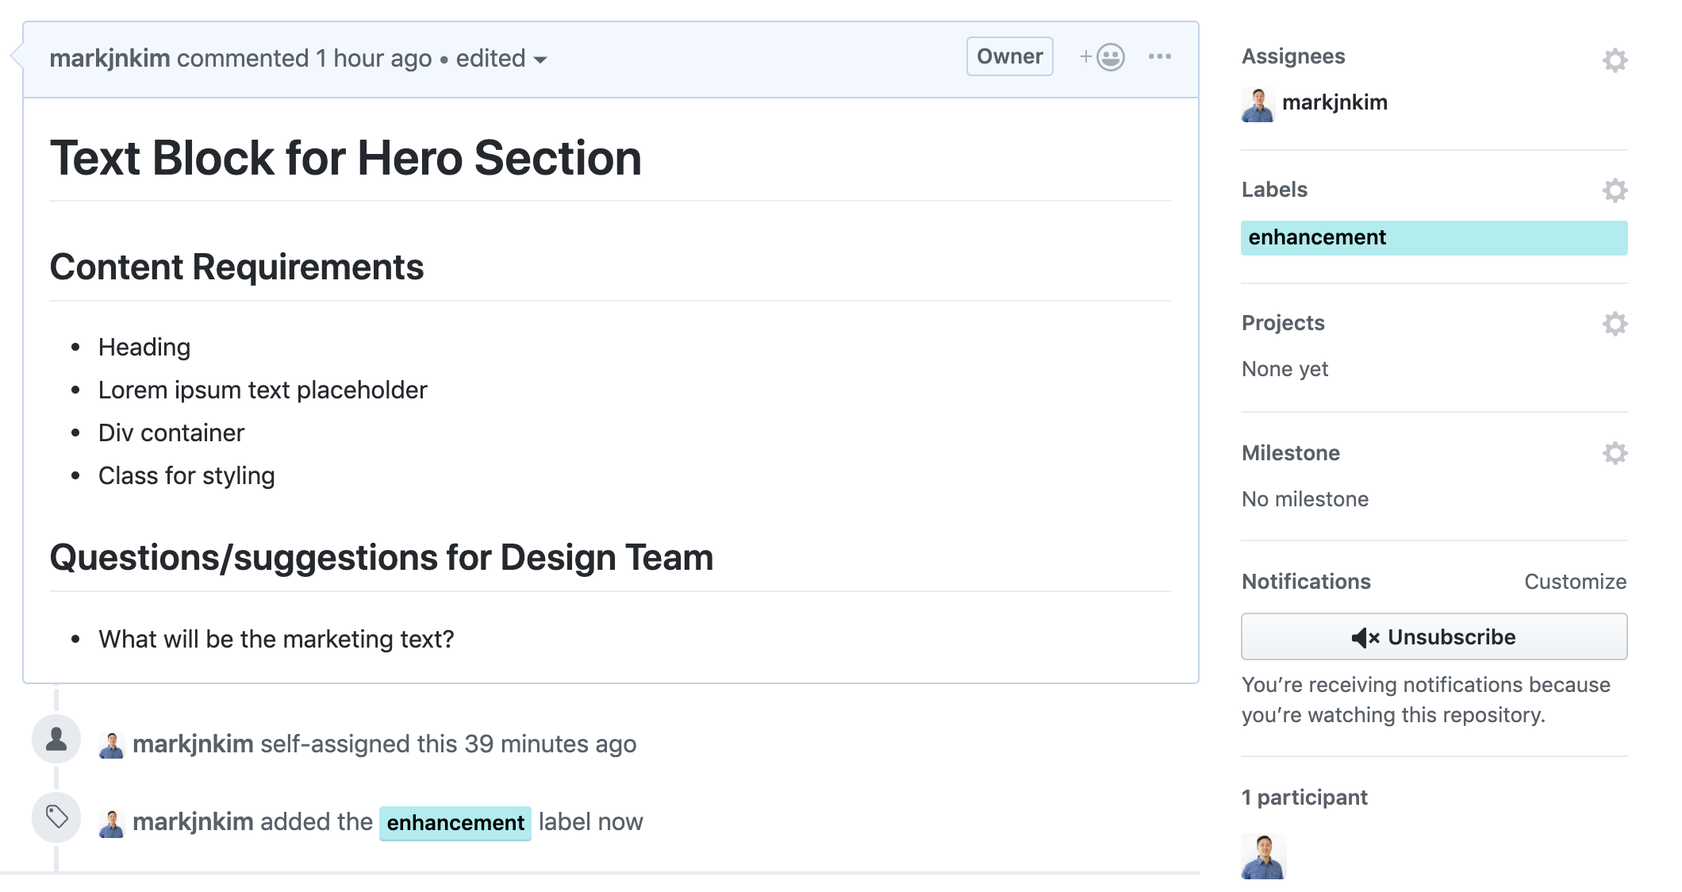
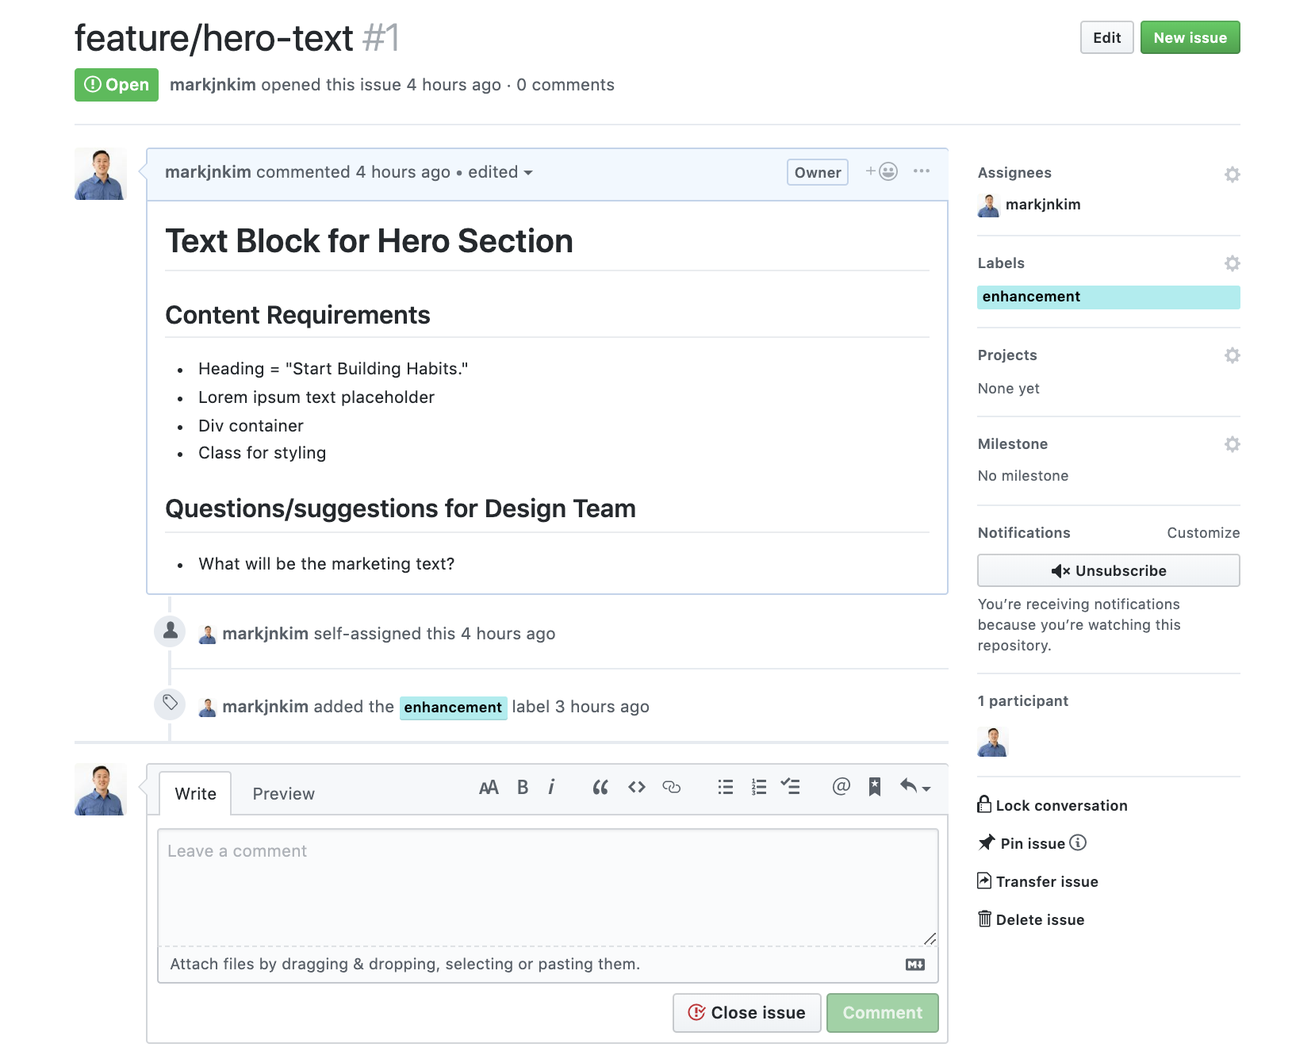
reflection

diff --git a/01-html/project/index.html b/01-html/project/index.html
@@ -11,23 +11,22 @@
       <h1>
         <a href="/">RUN BUDDY</a>
       </h1>
-      <nav>
-        <ul>
-          <li>
-            <a href="#what-we-do">What We Do</a>
-          </li>
-          <li>
-            <a href="#what-you-do">What You Do</a>
-          </li>
-          <li>
-            <a href="#your-trainers">Your Trainers</a>
-          </li>
-          <li>
-            <a href="#reach-out">Reach Out</a>
-          </li>
-          
-        </ul>
-      </nav>
+    <nav>
+      <ul>
+        <li>
+          <a href="#what-we-do">What We Do</a>
+        </li>
+        <li>
+          <a href="#what-you-do">What You Do</a>
+        </li>
+        <li>
+          <a href="#your-trainers">Your Trainers</a>
+        </li>
+        <li>
+          <a href="#reach-out">Reach Out</a>
+        </li>
+      </ul>
+    </nav>
     </header>
     <!-- end navigation -->
 
@@ -37,26 +36,25 @@
         <h3>Get Started Today!</h3>
         <p>Fill out this form and one of our trainers will schedule a consult.</p>
         <form>
-          <label for="name">Enter full name:</label>
-          <input type="text" placeholder="Your Name" id="name" name="name" class="form-input" />
-          <label for="email">Enter email address:</label>
-          <input type="email" placeholder="Email Address" id="email" name="email" class="form-input" />
-          <label for="phone">Enter a telephone number:</label>
-          <input type="tel" placeholder="Phone Number" name="phone" id="phone" class="form-input" />
+          <input type="text" placeholder="Your Name" name="name" class="form-input"/>
+          <input type="email" placeholder="Email Address" name="email" class="form-input"/>
+          <input type="tel" placeholder="Phone Number" name="phone" class="form-input"/>
           <p>
             Have you worked out with a trainer before? 
-            <input type="radio" name="trainer-confirm" id="trainer-yes" />
-            <label for="trainer-yes">Yes</label>
-            <input type="radio" name="trainer-confirm" id="trainer-no"/>
-            <label for="trainer-no">No</label>
+            <label for="trainer-yes">
+              <input type="radio" name="trainer-confirm" id="trainer-yes" />
+              Yes
+            </label>
+            <label for="trainer-no">
+              <input type="radio" name="trainer-confirm" id="trainer-no"/>
+              No
+            </label>
           </p>
           <p>
-            <label for="checkbox">
-              I acknowledge that I am at least 18 years of age.
-            </label>
-            <input type="checkbox" name="age-confirm" id="checkbox" />
+            I acknowledge that I am at least 18 years of age.
+            <input type="checkbox" name="age-confirm" />
           </p>
-          <button type="submit">
+          <button type="submit" class="form-submit">
             Get running!
           </button>
         </form>
@@ -144,38 +142,55 @@
         Reach Out
       </h2>
 
+
       <div class="contact-info">
-        <iframe src="https://www.google.com/maps/embed?pb=!1m14!1m12!1m3!1d12182.30520634488!2d-74.0652613!3d40.2407219!2m3!1f0!2f0!3f0!3m2!1i1024!2i768!4f13.1!5e0!3m2!1sen!2sus!4v1561060983193!5m2!1sen!2sus" frameborder="0" style="border:0" allowfullscreen></iframe>
-        <div>
-        <h3>Run Buddy</h3>
-        <p>
-          Any questions or concerns before signing up? 
-          <br/>
-          Let us know and we'll be happy to talk to you!
-        </p>
+       <div>
+          <h3>Run Buddy</h3>
+          <p>
+            Any questions or concerns before signing up? 
+            <br/>
+            Let us know and we'll be happy to talk to you!
+          </p>
 
-        <address>
-          55 Main Street <br/>
-          Some Town, Ca <br/>
-          12345
-        </address>
+          <address>
+            55 Main Street <br/>
+            Some Town, Ca <br/>
+            12345
+          </address>
 
-        <p>
-          P: 555.RUN.BUDZ (555.786.2839)<br/>
-          E: <a href=mailto://info@runbuddy.io>info@runbuddy.io</a>
-        </p>
+          <p>
+            P: 555.RUN.BUDZ (555.786.2839)<br/>
+            E: <a href=mailto://info@runbuddy.io>info@runbuddy.io</a>
+          </p>
+        </div> 
+        <!-- 2.1 - Added contact form -->
+        <div class="contact-form">
+          <h3>Contact Us</h3>
+          <form>
+           <label class="visuallyhidden" for="contact-name">Your Name</label>
+           <input type="text" id="contact-name" placeholder="Your Name" />
+      
+           <label class="visuallyhidden" for="contact-message">Message</label>
+           <textarea id="contact-message" placeholder="Message"></textarea>
+      
+           <button type="submit">Submit</button>
+          </form>
         </div>
+        
+        <iframe src="https://www.google.com/maps/embed?pb=!1m14!1m12!1m3!1d12182.30520634488!2d-74.0652613!3d40.2407219!2m3!1f0!2f0!3f0!3m2!1i1024!2i768!4f13.1!5e0!3m2!1sen!2sus!4v1561060983193!5m2!1sen!2sus" frameborder="0" style="border:0" allowfullscreen></iframe>
+        
       </div>
     </section>
     <!-- "reach out" end -->
 
     <!-- footer -->
     <footer>
-      <h2>❤ Made with love by Run Buddy.</h2>
-      <div>
-        <a href="./privacy-policy.html">Read Our Privacy Policy</a><br/>
+      <h2> ❤ Made with love by Run Buddy.</h2>
+
+      <span>
+        <a href="./privacy-policy.html">Read Our Privacy Policy</a> <br/>
         &copy; 2019 Run Buddy, Inc.
-      </div>
+      </span>
     </footer>
     <!-- footer end -->
   </body>

diff --git a/02-css/content/lesson-1-gitflow.md b/02-css/content/lesson-1-gitflow.md
@@ -25,16 +25,6 @@ In this lesson we will introduce three main concepts.
 ## Introducing Gitflow
 Git allows developers to create copies of the codebase to develop new features or fix bugs. These copies are referred to as branches. In our case we would like to have one version that is deployed which will continue to serve our visitors and another version of the same exact code so we can work in isolation that will allow us to edit and develop without worrying about disrupting the website for visitors. We will call this branch `develop`. This will become our development environment. We will work on the code in our `develop` branch while our deployed site will remain in the production environment. Development environments are not exposed to the public whereas production is.
 
-<!-- 
-|         | Production | Development |
-|------------------|------------| ----------- |
-|exposed to public | true    | false    |
-|testing phase   | false   | true    |
-|branch name    | master   | develop   |
-|deployed     | true    | false    |
-|located in repo  | true    | true    |
-|contains test data| false   | true    | -->
-
 Please note the branch names are just labels that can be changed. The `master` branch does not always have to be the production environment, however in our situation this will be the case. 
 
 The `develop` branch will be where we collect the new features or enhancements and test them. Once we are satisfied with the final result and we have a stable working version, we can then "merge" our new work into the `release` branch. From there we will make a `pull request` which is a formal request to merge the new changes into the `master` which will allow team members to review and test the code as well as offer comments.  The `release` branch will be where we perform our final tests before updating or releasing our new version into the `master` branch. 
@@ -85,16 +75,15 @@ Now let's type in our command to list the branches to verify our work.
 $ git branch
 ```
 Your terminal should now look like this.<br />
-```
+![Develop Branch Active](assets/lesson-1/004-active-branch-terminal.png)
+<!-- ```
 $ git branch
    master
  * develop
-```
-<!--How do I make the develop line GREEN! -->
-The  asterisk indicates the current active branch.
-<!-- ![git-branch](assets/lesson-1/100-git-branch-cli.png)<br /> -->
-<!-- >> ## Will fix terminal prompt to be anonymous -->
-## NEW SCREENSHOT - Green font color active branch
+``` -->
+
+The green font color and asterisk indicate the active branch or "working directory". This command may be one of the most used since knowing which branch or version you are currently on is important to know for all the following Git workflow operations.
+
 Now that we have learned an important use of Git's branches to create an isolated development environment to work and edit without disturbing our production environment, let's explain another invaluable function that branching performs which is the ability to create feature branches. 
 
 ## Now Featuring. . . Branches
@@ -253,9 +242,9 @@ Now that we have our `develop` branch updated, our development environment is re
 ## Git Issues Create Feature Branches
 
 The design team has requested we insert a text block into the hero section to add some visual balance and use this prime website real estate for Run Buddy marketing material. 
-<!-- ? Lesson flow question ?, I could make the students create the 2nd issue after the first one is finished (Contact Form) -->
 
-Now we could dive right in and get started on a new feature branch, but instead let's take a moment to introduce a service from GitHub called Git issues. Git issues is a task management tool that is used with teams to track, organize, and communicate ideas, tasks, bugs, or enhancements. This tool can prevent team members from forgetting to do important tasks, identify bottle necks or blockers, and prevent duplicated work. Let's go to our GitHub repo and select on the Issues tab.
+Now we could dive right in and get started on a new feature branch, but instead let's take a moment to introduce a service from GitHub called Git issues. Git issues is a task management tool that is used with teams to track, organize, and communicate ideas, tasks, bugs, or enhancements. This tool can prevent team members from forgetting to do important tasks, identify bottle necks or blockers, and prevent duplicated work. 
+Let's go to our GitHub repo and select on the Issues tab.
 
 > **Possible Video Walkthrough** creating git issue
 > Create issue, compose content/labels, submit issue, verify issue, edit
@@ -266,7 +255,9 @@ From there we can create a new issue by clicking on the green New Issue button.
 >1) Click on Issues tab
 <!-- red outline of Issues tab-->
 >![Git Issue Tab](assets/lesson-1/800-git-issues-github.png)
->2) Type "feature/hero-text" into the text field
+>2) Since we are using the Gitflow model to manage our workflow, we need to use a strict naming convention when creating our Git issues. These will later define our feature branches which are derived from our Git issues. 
+In Gitflow, typically the naming convention for feature branches would be feature/[feature-name] or a if you have an issue tracking number, [issue-number]/[feature-name].
+In this case we will use `feature/hero-text` to name our Git issue, which will name the corresponding feature branch as well.
 
 >![new-git-issue](assets/lesson-1/801-edit-git-issue.png)
 <!-- red outline of "Submit new issue -->
@@ -276,7 +267,7 @@ Here is a simple example for our case:
 # Text Block for Hero Section
 
 ## Content Requirements
-* Heading
+* Heading = "Start Building Habits."
 * Lorem ipsum text placeholder
 * Div container
 * Class for styling
@@ -288,23 +279,53 @@ Here is a simple example for our case:
 >5) Click on the "Submit new issue" button.
 
 We should see the following screen following a successful issue creation.
-![Git Issue Success](assets/lesson-1/802-git-issue-success) 
-<!-- red outline of Edit Button, Close Issue Button -->
+## New Screenshot - Scrub Info - Add red outline to Edit and Close Issue Buttons
+![Git Issue Success](assets/lesson-1/801-edit-git-issue.png) 
+
 Congratulations on completing your first Git issue. Please note this screen is the edit screen that allows changing the text as well as closing the issue once the enhancement or work has been finished. This edit screen can be found on the Issues tab which now notes there is one outstanding issue at the repo's landing page.
 Take a look at [GitHub help](https://help.github.com/en/articles/managing-your-work-with-issues) for an expansive view of how Git issues can further assist in project management.
 
 Now that we understand how to make a Git issue, let's create another one for another HTML additional we have been requested to make from the sales department. They would like a form that is able to submit questions directly to the sales staff to go in the Reach Out section.
 > **Activity**: Please continue with creating a new Git issue for this new feature.
-> **Solution**: The finished issue should look something like this.
+> **Solution**: The finished issue should look something like this:
+```markdown
+# Contact Form
 
-Let's continue progressing through our project requirements to add some HTML content in our next step. 
+## Location 
+   Reach Out section
 
-## Add New Content with HTML
-According to our mock-up we will need to add a bit of content to our landing page. Let's take a look at the new text block we will need to add.
-![hero-section-mock-up](assets/lesson-1/500-hero-mock-up.png)
+## Content Requirements
+* Heading = "Contact Us"
+* Name
+* Question area - <textarea>
+```
+![Git Issue Success](assets/lesson-1/820-contact-git-issue.png) <br />
+Let's continue progressing through our project requirements to add some HTML content in our next step and transition this issue into a feature branch.
 
-Please proceed with adding just the HTML content needed here.
+## Setting up our Feature Development Environment
+Our first step will to create a new feature development environment that will have a stable copy of the current codebase which we can work on independently. So let's use our Gitflow model and create our first feature branch now that we have our Git issue set up with the feature's requirements.
+> **Video Step through** Using integrated terminal in VS Code: make feature branch from `develop`, add HTML, check out back to `develop`, merge.
+> **Linear Steps**
+According to our Gitflow model, our first step when creating a feature branch will be to `checkout` into the `develop` branch, our stable codebase, then create a new branch, then use this branch as our "working directory" or active branch. We can accomplish these two git operations with the following command in the terminal:
+```
+$ git checkout -b feature/hero-text
+```
+Please take notice that this made an exact copy of the `develop` branch including the newly created `README.md` file. As soon as we starting to work and commit in the feature branch these versions will begin to diverge.
+## NEW SCREENSHOT - SCRUB INFO - Red Outline for Active Branch and Success Message.
+![Git Feature Branch](assets/lesson-1/910-integrated-terminal-vs-code.png)
 
+> **Checkpoint**
+> What is the Git operation to create a new branch?
+> What is the Git operation to create a delete a branch?
+> What is the Git operation to download data from a remote repo?
+> What is the Git operation to move into a new branch?
+> What is the Git operation to review a remote branch without making any changes to the working directory?
+## Adding HTML to our Hero Section
+Let's take a quick look at our requirements from the Git issue and the mock-up from the design team to see what content we need to add for the hero text block.
+![Hero Text Block Mock-up](assets/lesson-1/500-hero-mock-up.png)<br />
+![Git Issue Text Block Requirements](assets/lesson-1/1000-text-block-issue.png)<br />
+> **Activity**: Practice your HTML skills by fulfilling the Git issue requirements and following the mock-up for guidance.
+> **Solution**: The markup should look like this:
 
 ```html
 <!-- 2.1 - Added call to action (CTA) -->
@@ -319,19 +340,40 @@ Please proceed with adding just the HTML content needed here.
     </p>
    </div>
 ```
-
-> **Will Add Screenshot**:
+Please save and render so your browser should look like this:
+![Hero Text Display](assets/lesson-1/1100-hero-text-markup-html.png)
 
 > **Pause**: Notice how there is an overlap. Why does this occur?
 
-> **Answer**: Absolute position removed the `form` from the document flow which allows the text block to overlap. We will fix this in the next section when implementing the CSS. 
+> **Answer**: Absolute position removed the `form` from the document flow which allows the text block to overlap. We will fix this in the next section when adding the CSS styling. 
 
-One more thing, let's flip our hero image to improve the legibility of our text block by updating our background hero image the the css with the following image.
+One more thing, let's change our hero image to improve the legibility of our text block by updating our background hero image the the css with the following image.
 > **Image download** from Canvas/AWS [flipped-hero-image](assets/lesson-1/400-hero-flip-css.jpg)
+Please save and render into the browser to get the following:
+![Hero Image](assets/lesson-1/1200-hero-image.png)
+As was the case, it doesn't look pretty now, but this will be addressed later in the styling lesson. For now, our issue is complete so let's add and commit our work in this branch.
 
-Great! Now that this is done, let's add the markup for our contact form for our Reach Out Section. Let's review the Reach Out section on our mock-up
-![contact-form](assets/lesson-1/600-Reach-Out-mock-up.png)
-Notice the large text input field for Message. This is a new HTML element that will allow multiple lines to be entered. This element is called `<textarea>`. This element has quite a few attributes that allow different configuration parameters like the size of the rendered input field, maximum character length, and if it is a required input in order to submit. This and many more attributes can be found at [MDN web docs](https://developer.mozilla.org/en-US/docs/Web/HTML/Element/textarea) for a more detailed look.
+Let's perform the Git operation make `develop` the working directory.
+```
+$ git checkout develop
+```
+Now let's open in VS Code and look at the hero section in the `index.html` file. Note that the new markup we just added is not visible here. The new markup only exists on the feature branch, `feature/hero-text`. In order to add the new code into the `develop` branch we will need to perform a `merge` operation. Let's continue with that step now.
+> **Pro Tip**: It must be reiterated that branch awareness is often overlooked by new developers so keep track by using the `git branch` command prior to merge, pull, or developing tasks. Using the integrated terminal in VS Code is highly recommended due to the status bar notification of the active branch.
+```
+git checkout develop
+git merge feature/hero-text
+```
+Upon successful merging, the terminal should look like this:
+![Merge Success Terminal](assets/lesson-1/1300-merge-success-terminal.png)
+This should look familiar to our `git pull` operation we executed earlier in the lesson since we also performed a `git merge` operation then as well.
+Excellent, now the `develop` is updated with our new markup and has remained a stable codebase throughout. 
+Now let's move onto the second issue and tackle the `feature/contact-us` feature.
+> **Activity**: Let's follow the same procedure as we did for the `feature/hero-text` issue. First set up the feature development environment, add the HTML according to the requirements, verify changes were successful in the browser, then merge the `feature/contact-us` into `develop` branch. Here is the design team's mock-up and requirements:
+![contact-form](assets/lesson-1/1400-Reach-Out-mock-up.png)
+![contact-form-issue](assets/lesson-1/1500-contact-us-requirement-issue.png)<br />
+> **Hint**: Notice the large text input field for Message. This is a new HTML element that will allow multiple lines to be entered. This element is called `<textarea>`. This element has quite a few attributes that allow different configuration parameters like the size of the rendered input field, maximum character length, and if it is a required input in order to submit. This and many more attributes can be found at [MDN web docs](https://developer.mozilla.org/en-US/docs/Web/HTML/Element/textarea) for a more detailed look at the attributes.<br />
+> ## Not sure if I should be adding the class for `visuallyhidden` here? Should I add this requirement to the Git issue then? Accessibility consideration now or later?
+> **Hint**: markup
 ```html
 <!-- 2.1 - Added contact form -->
     <div class="contact-form">
@@ -347,21 +389,38 @@ Notice the large text input field for Message. This is a new HTML element that w
      </form>
     </div>
 ```
-Now that we have created our development environment and added some HTML content, we can start adding our features to make our landing page mobile responsive.
+> **Hint**: Follow the same steps for the `hero-text` feature above.<br />
+> **Hint**: Don't forget to merge back into the develop branch.
 
+Now let's check to see if our contact form has been correctly added to the `develop` branch.
+First `git checkout` into the `develop` branch and then render in the browser.
+We should see the following:
+> ## Red outline bottom right corner of `<textarea>` to highlight input text field resizing.
+![Contact Form Render](assets/lesson-1/1600-contact-us-render-html.png)<br />
+Congrats, the markup has been successfully added. 
 
+> **Pause**: Now that our two feature branches have been completed and merged back into the `develop` branch what is left to do with our issues?<br />
+> **Hint**: Since the issues have been resolved, how do we change their status?<br />
+> **Solution**: Let's go to the Issues tab in our Github repo and mark the issues as closed by clicking on the Close Issue button. This will remove the issue from our list of todos.
+## Red Outline for Close Issue Button
+![Git Issue Success](assets/lesson-1/801-edit-git-issue.png) 
 
-
-
-In the next lesson we will learn how our issue will turn into a feature branch.
 > **Checkpoint**: Possible stopping place
+> Gitflow process: how to make a feature development environment
+> How do I exit out of Vim?
+> What is the connection b/n issues and feature branches?
+> Why is good documentation for a project important?
+> Why use Markdown?
+> What is the syntax to make a large heading in Markdown?
+> Why can't I just work on the `develop` branch?
 
 ## Reflection
-Let's take a moment to review some of the big takeaways from this lesson.
-* **Development vs Production**: Creating a development environment to allow users to browse the website in the production environment is an important use of Git's version control tool.
-* **Branches**: Allow versions of the codebase to coexist, letting people to work in isolation and ship features more quickly.
-* **README.md**: A high level introduction to your project repo.
-* **Git Pull**: Is the process of merging the remote repo into the local repo by branch.
-* **Git Issues**: A tool that facilitates project management, promotes communication, and facilitates productivity.
+This was a dense lesson of concepts many of which were challenging to understand. Git is a wonderful tool that most developers use on a daily basis and is the industry standard. Working in programming often means using Git and the Git workflow to collaborate on projects. Before we proceed to the next lesson and work on another Git issue to make our website mobile responsive  let's go over some of the key concepts and big ideas we introduced in this lesson.
+* We learned the difference between the **development** and **production** environments and how creating a isolated version of the codebase can allow users to use the website and allow updates and fixes to develop simultaneously.
+* We created **feature branches** to allow versions of the codebase to coexist, letting team members to work in isolation and ship features more quickly. This allows for parallel development that increase the team's productivity and accountability, essential metrics for any company.
+* We introduced the **README.md** file which is a high level introduction to your project repo facilitating quick reads by potential employers of your project's technical skill.
+* We used Git operations to update the remote repo and local repos with `pull`, `push`, `fetch`, `branch`, `checkout`, and `merge`. A solid understanding of these operations to perform a proper Git workflow is crucial to collaborating on projects and is a key metric for employer-ready students.
+* We introduced the **Gitflow** model which emphasizes isolation of the production environment except for specific version updates of features from the `release` branch. This is a widely used and real world example of Git workflow that demonstrates the effective uses of Git to management a software development team.
 
-Now let's use our Git issue to create our first feature branch and continue onto Lesson 2: Flexbox.
+## I believe I was originally supposed to create the feature/flexbox issue, but didnt' do so because I created two issues for the HTML content. Now not sure if this makes sense for the learning flow of this lesson.
+Now let's use this workflow process and apply it to the rest of this project and build a mobile responsive website in the next lesson.
